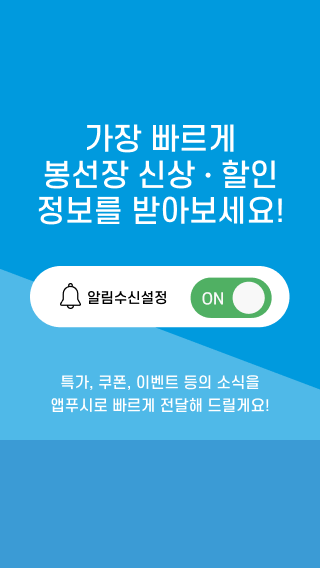
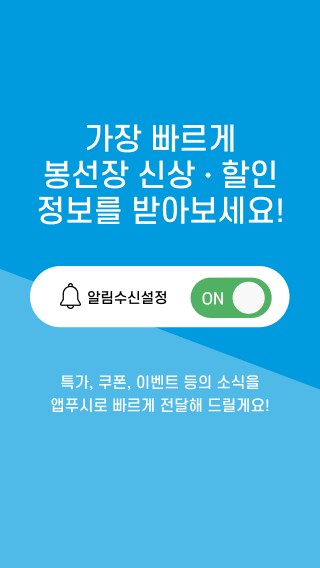
Update onboarding screen appearance with a brighter blue color
Modify onboarding images and CSS to use a lighter blue background color (#4FB9E8) for a more consistent visual appearance.

Replit-Commit-Author: Agent
Replit-Commit-Session-Id: 69fd091b-bbcb-440d-b2bc-38c62d9d1b9e
Replit-Commit-Checkpoint-Type: full_checkpoint
Replit-Commit-Event-Id: 914467bb-b547-4684-ab51-a3d8592fbb0c
Replit-Commit-Screenshot-Url: https://storage.googleapis.com/screenshot-production-us-central1/ee7ea1ce-f859-4b8f-adbd-76e2e1129002/69fd091b-bbcb-440d-b2bc-38c62d9d1b9e/OApm9Ru
Replit-Helium-Checkpoint-Created: true

Changed region(s): [[0.0, 0.7482, 1.0, 1.0]]

diff --git a/apps/frontend/src/components/OnboardingScreen/OnboardingScreen.css b/apps/frontend/src/components/OnboardingScreen/OnboardingScreen.css
@@ -40,7 +40,7 @@
   flex-direction: column;
   align-items: center;
   gap: 16px;
-  background-color: #3B9BD5;
+  background-color: #4FB9E8;
 }
 
 .onboarding-screen__top-row {